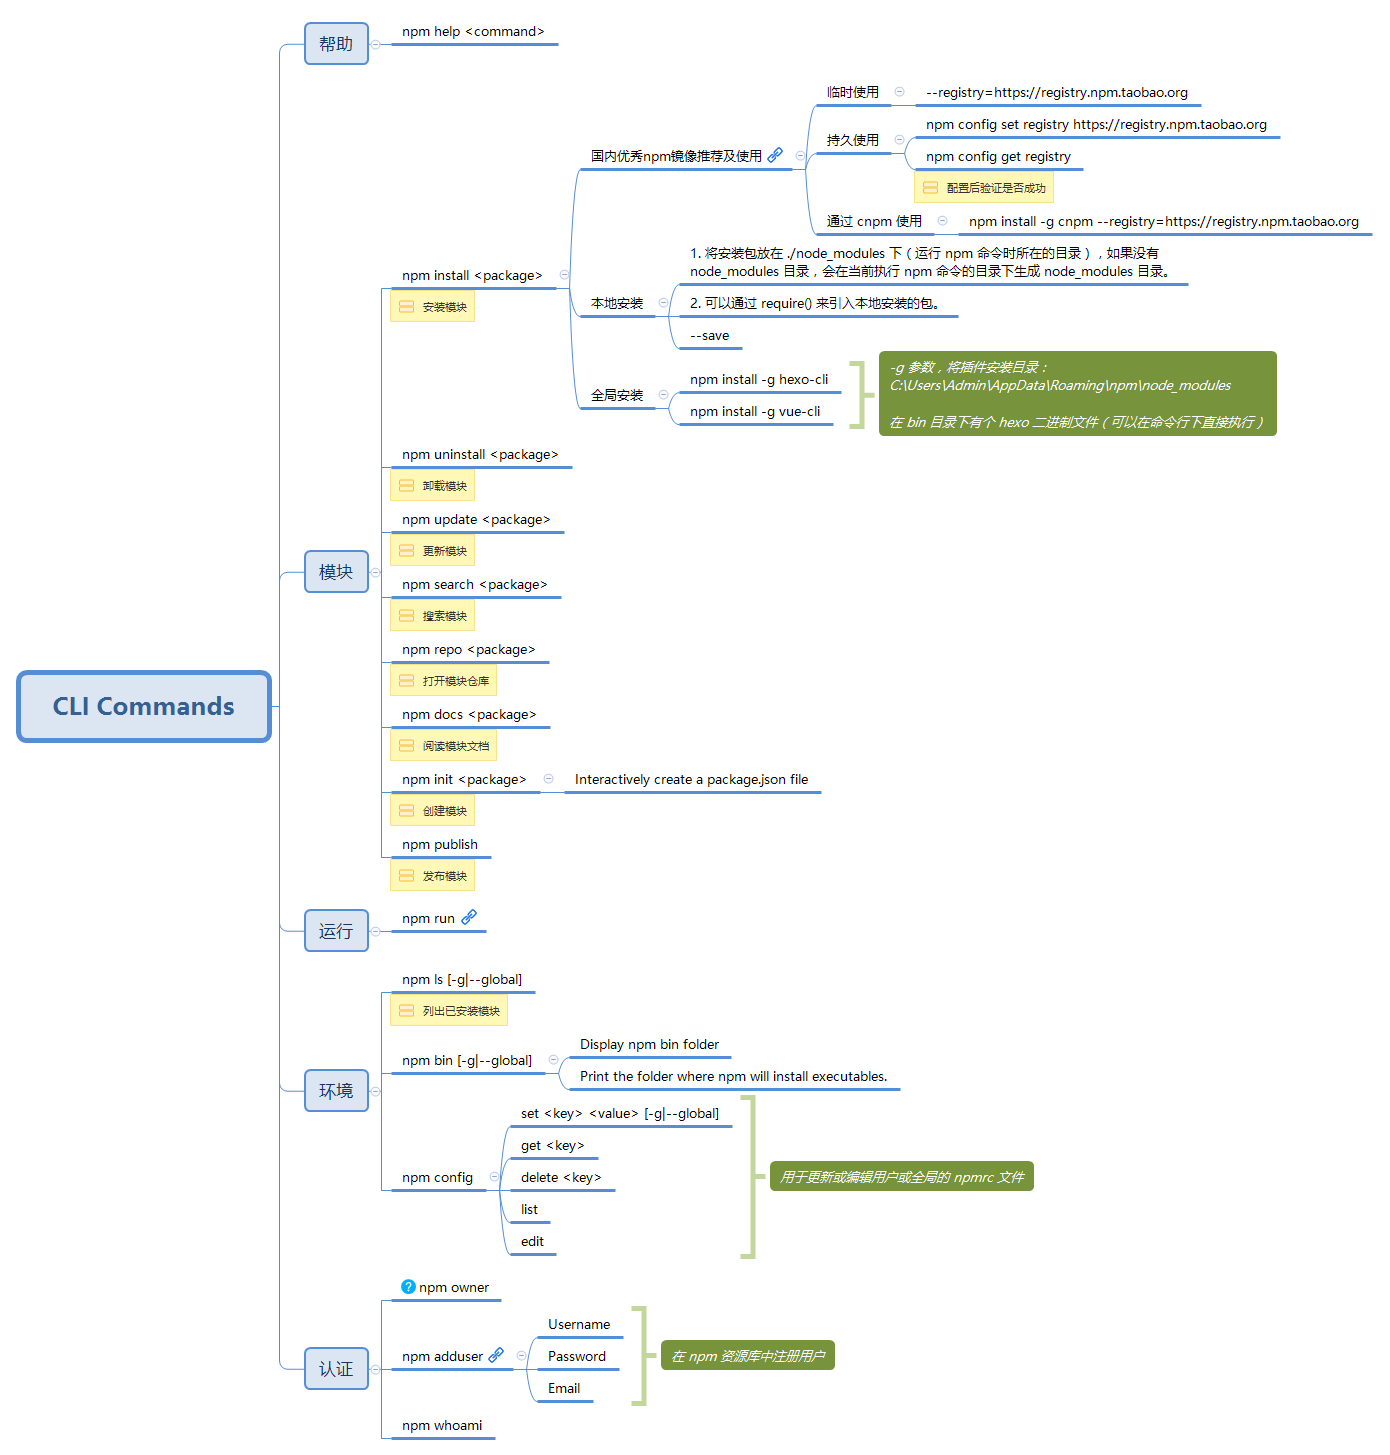
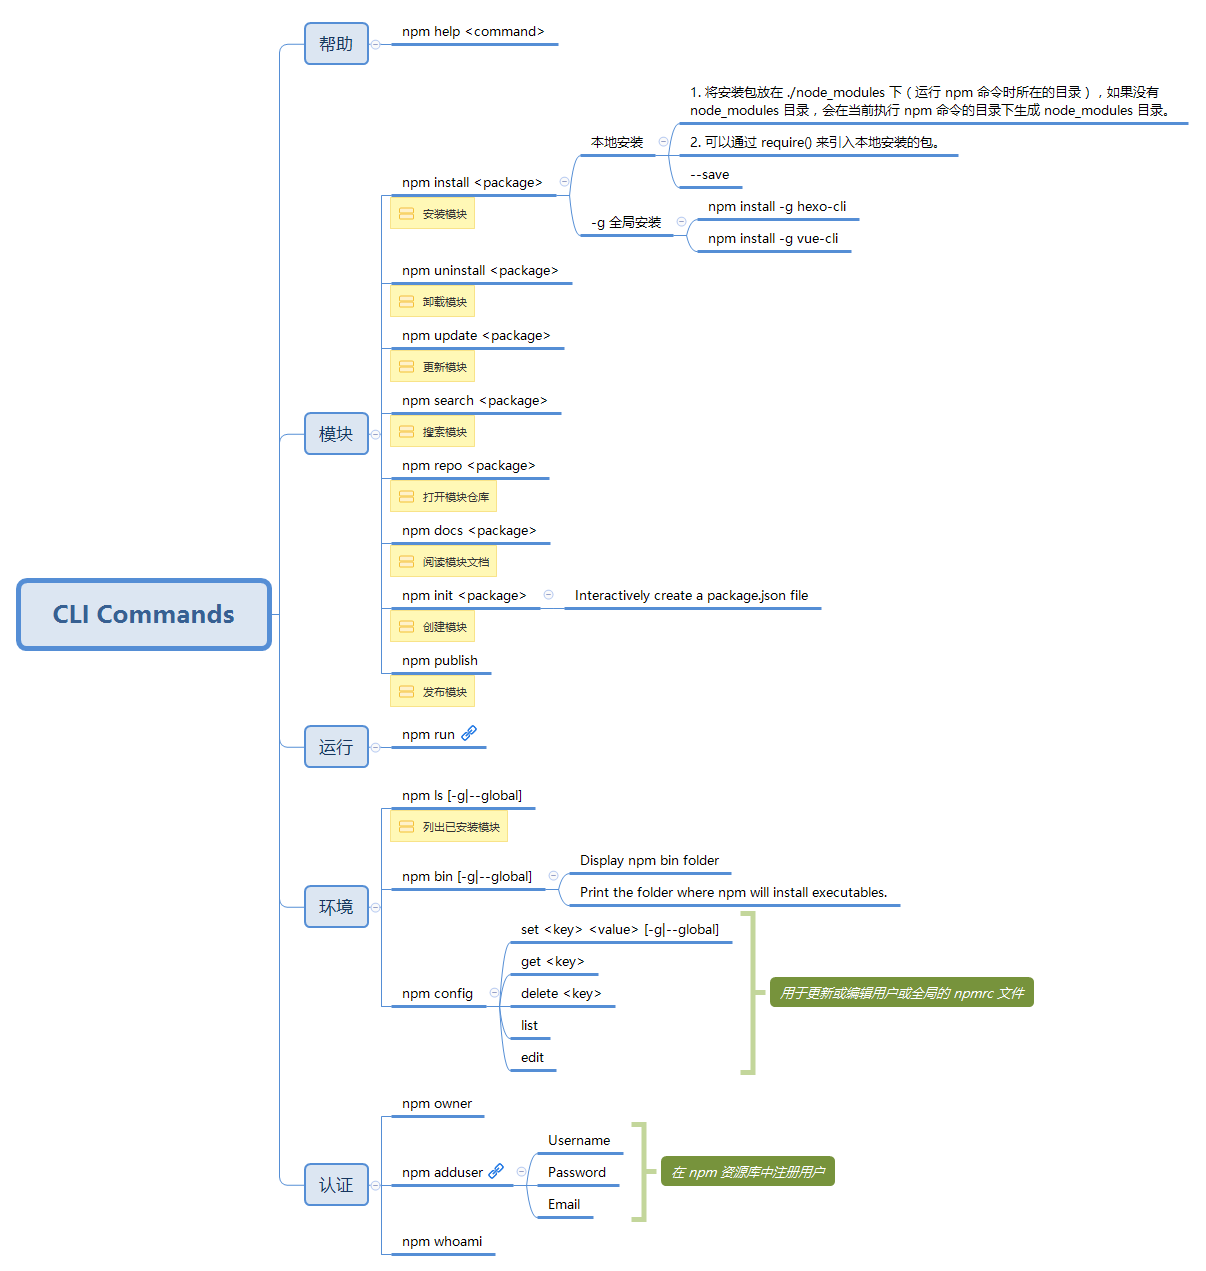
补充 npm 安装和淘宝镜像

Changed region(s): [[0.2148, 0.0614, 0.9818, 1.0], [0.0, 0.4296, 0.2454, 0.5216], [0.2148, 0.0, 0.4295, 0.0614]]

diff --git a/source/_posts/npm.md b/source/_posts/npm.md
@@ -13,9 +13,34 @@ npm 是随 Node.js 自动安装的，由三个独立的部分组成：
 * [注册表（Registry）](https://docs.npmjs.com/misc/registry)：一个巨大的数据库，保存了每个包（package）的信息。
 * [命令行工具（CLI）](https://docs.npmjs.com/cli/npm)：命令行或终端运行。开发者通过 CLI 与 npm 打交道。
 
-# CLI 命令
+# 安装
+
+OS X 推荐使用 HomeBrew 安装：
+
+```
+brew install node --with-npm
+```
+
+其它：
+
+https://nodejs.org/zh-cn/download/
+
+# npm 命令
 
 ![NPM CLI Commands](/img/javascript/npm_cli_commands.png)
+
+`npm install -g <package>` 全局安装：
+
+* Windows：
+
+  * 安装目录 `C:\Users\Admin\AppData\Roaming\npm\node_modules\<package>`
+  * 生成可执行脚本：`C:\Users\Admin\AppData\Roaming\npm\<package>`
+  * 由于目录 `C:\Users\Admin\AppData\Roaming\npm` 已加入 `PATH` 环境变量，因为可以直接执行对应命令。
+
+* OS X：
+
+  * 安装目录 `/usr/local/lib/node_modules/<package>`
+  * 生成软链，例如：`/usr/local/bin/npm -> /usr/local/lib/node_modules/npm/bin/npm-cli.js`
 
 # npm 配置
 
@@ -39,6 +64,30 @@ npm 配置主要有两份：
 | `main`         | `main` 字段是一个模块ID，它是一个指向你程序的主要项目。就是说，如果你包的名字叫 express，然后用户安装它，然后`require("express")` |
 | `keywords`     | 关键字                                                       |
 
+# 淘宝 npm 镜像
+
+为了解决慢的问题，推荐使用淘宝 npm 镜像。三种使用方式：
+
+* 使用淘宝定制的 [cnpm](https://github.com/cnpm/cnpm) 命令行工具代替默认的 `npm`，安装方法：
+
+  ```bash
+  $ npm install -g cnpm --registry=https://registry.npm.taobao.org
+  ```
+
+* 永久配置 `npm` 命令行工具：
+
+  ```bash
+  $ npm config set registry https://registry.npm.taobao.org
+  --配置后验证是否成功
+  $ npm config get registry
+  ```
+
+* `npm` 安装包时，临时使用淘宝 npm 镜像：
+
+  ```bash
+  $ npm install vue-cli --registry=https://registry.npm.taobao.org
+  ```
+
 # 参考
 
 https://www.npmjs.com/
@@ -46,4 +95,6 @@ https://www.npmjs.com/
 https://www.npmjs.com.cn/
 
 https://npm.taobao.org/
+
+http://www.runoob.com/nodejs/nodejs-tutorial.html
 
